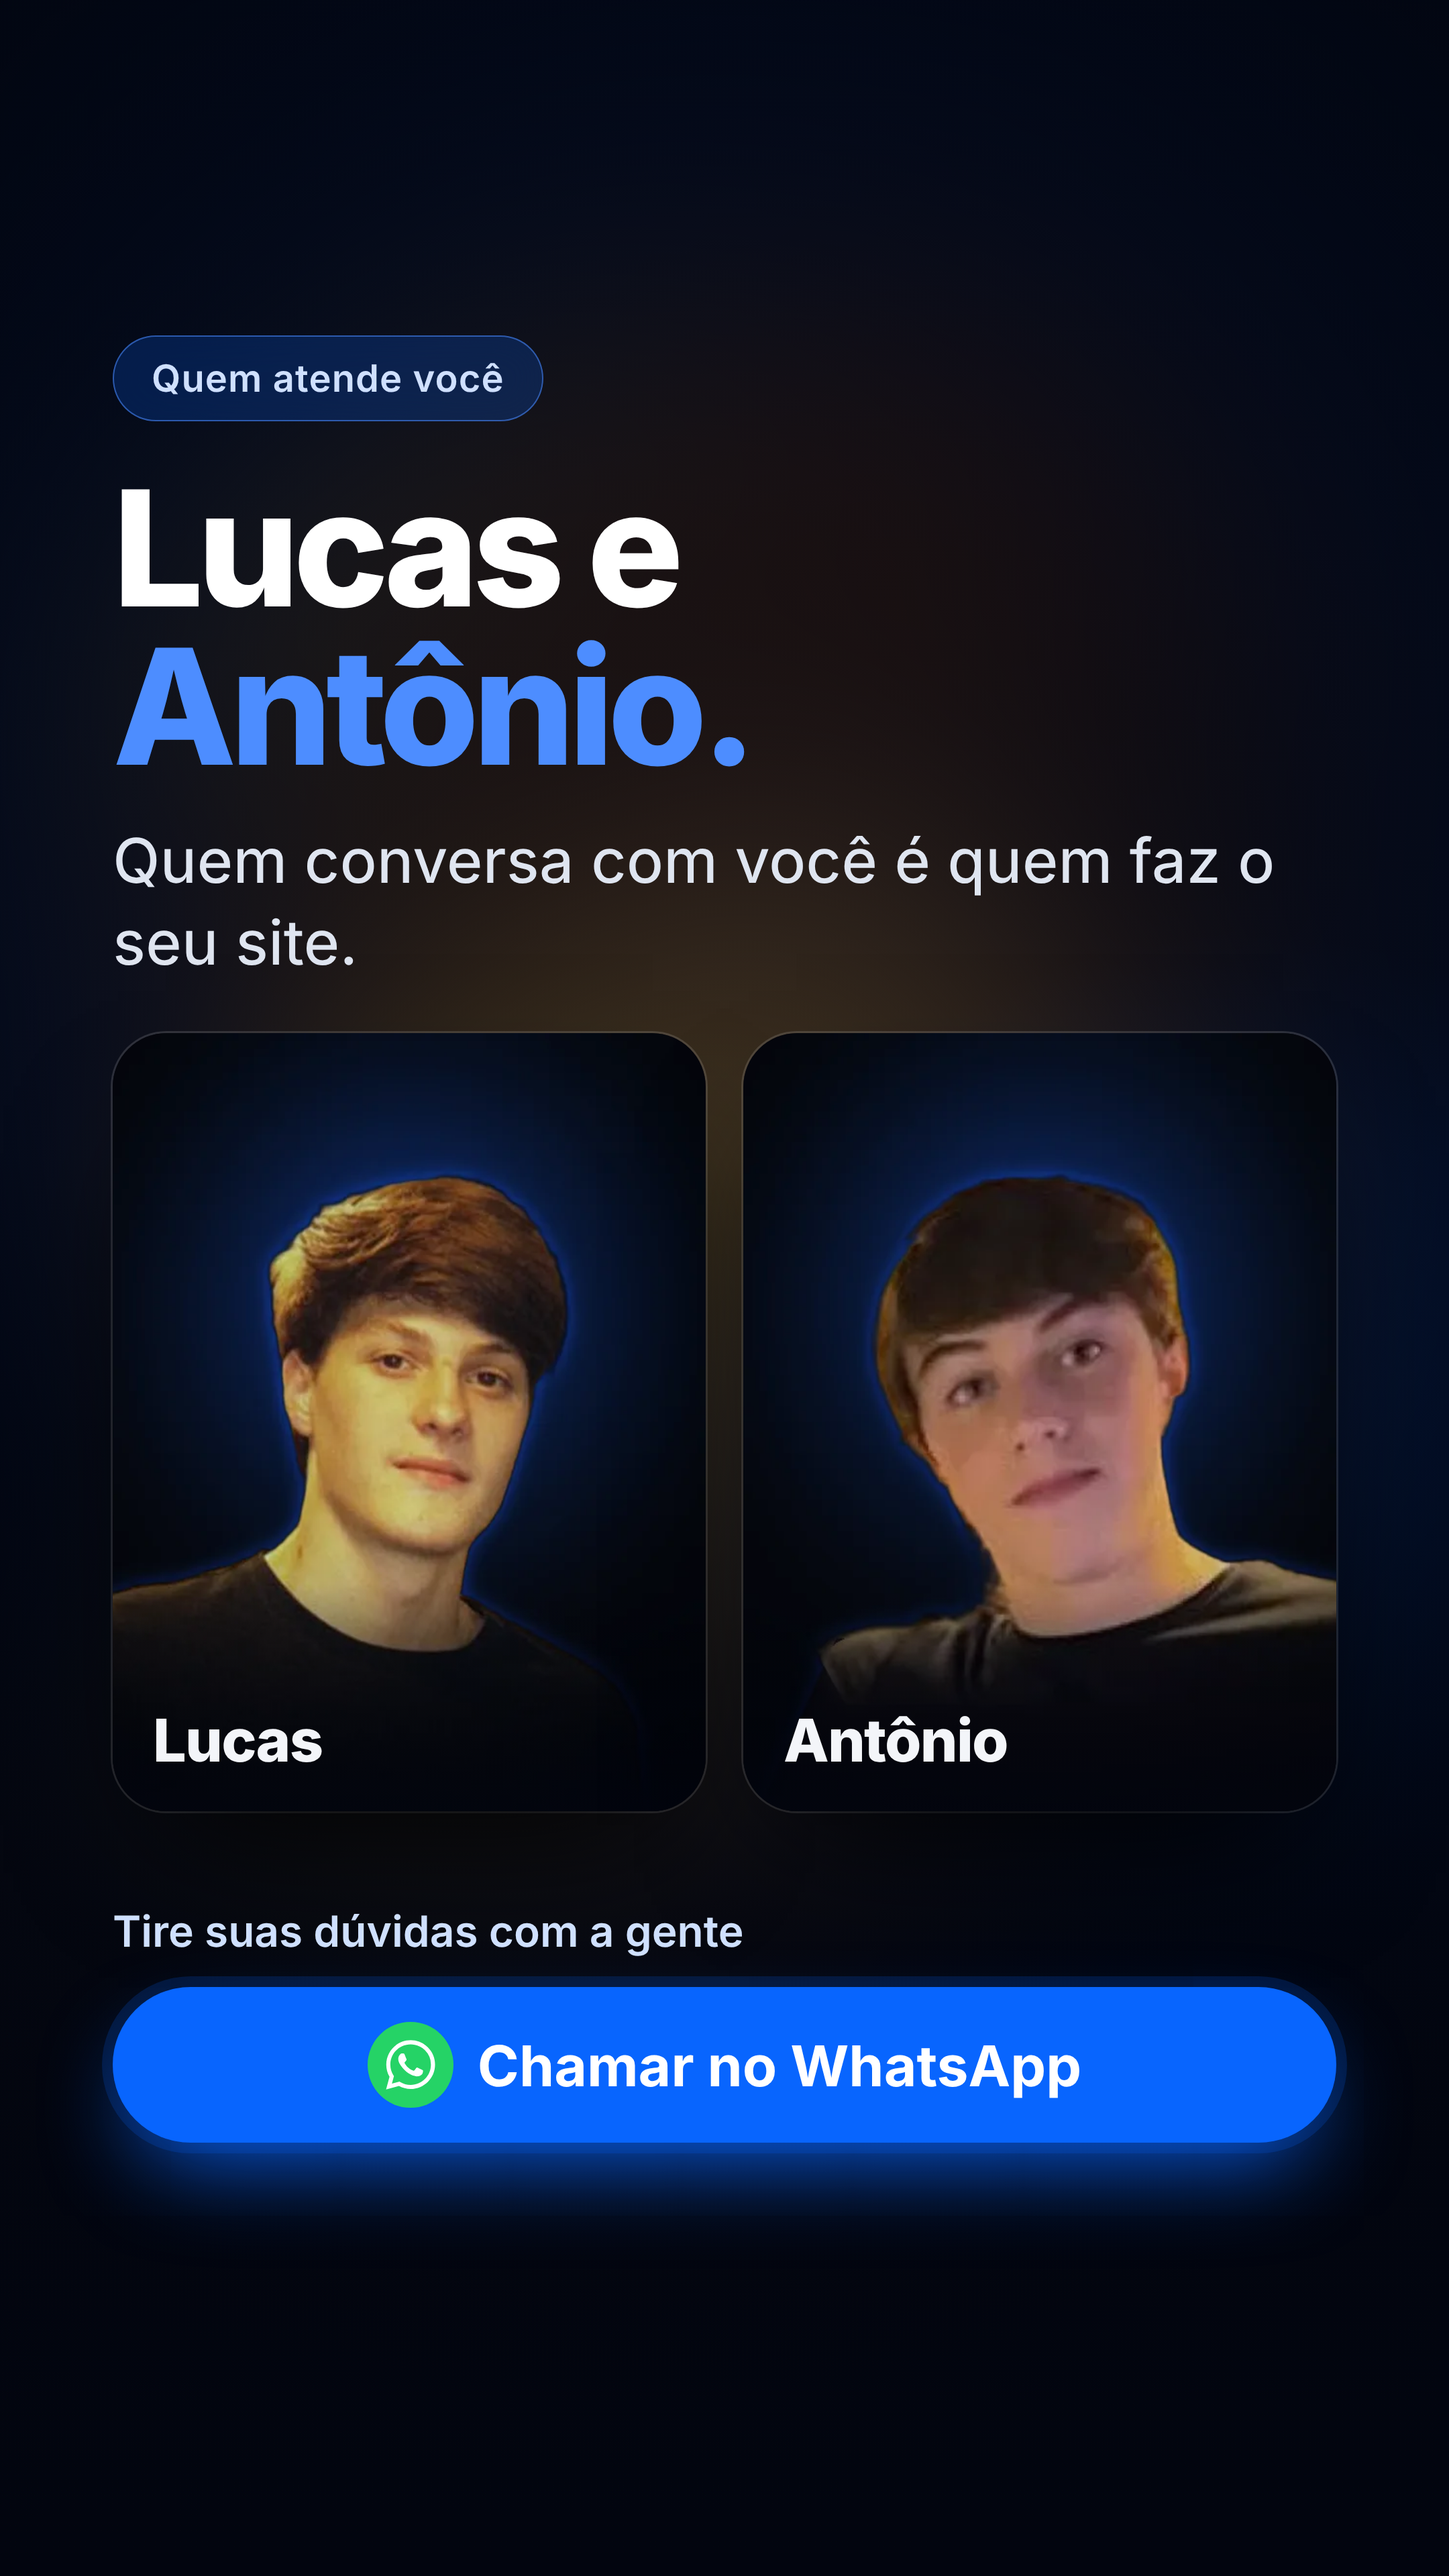
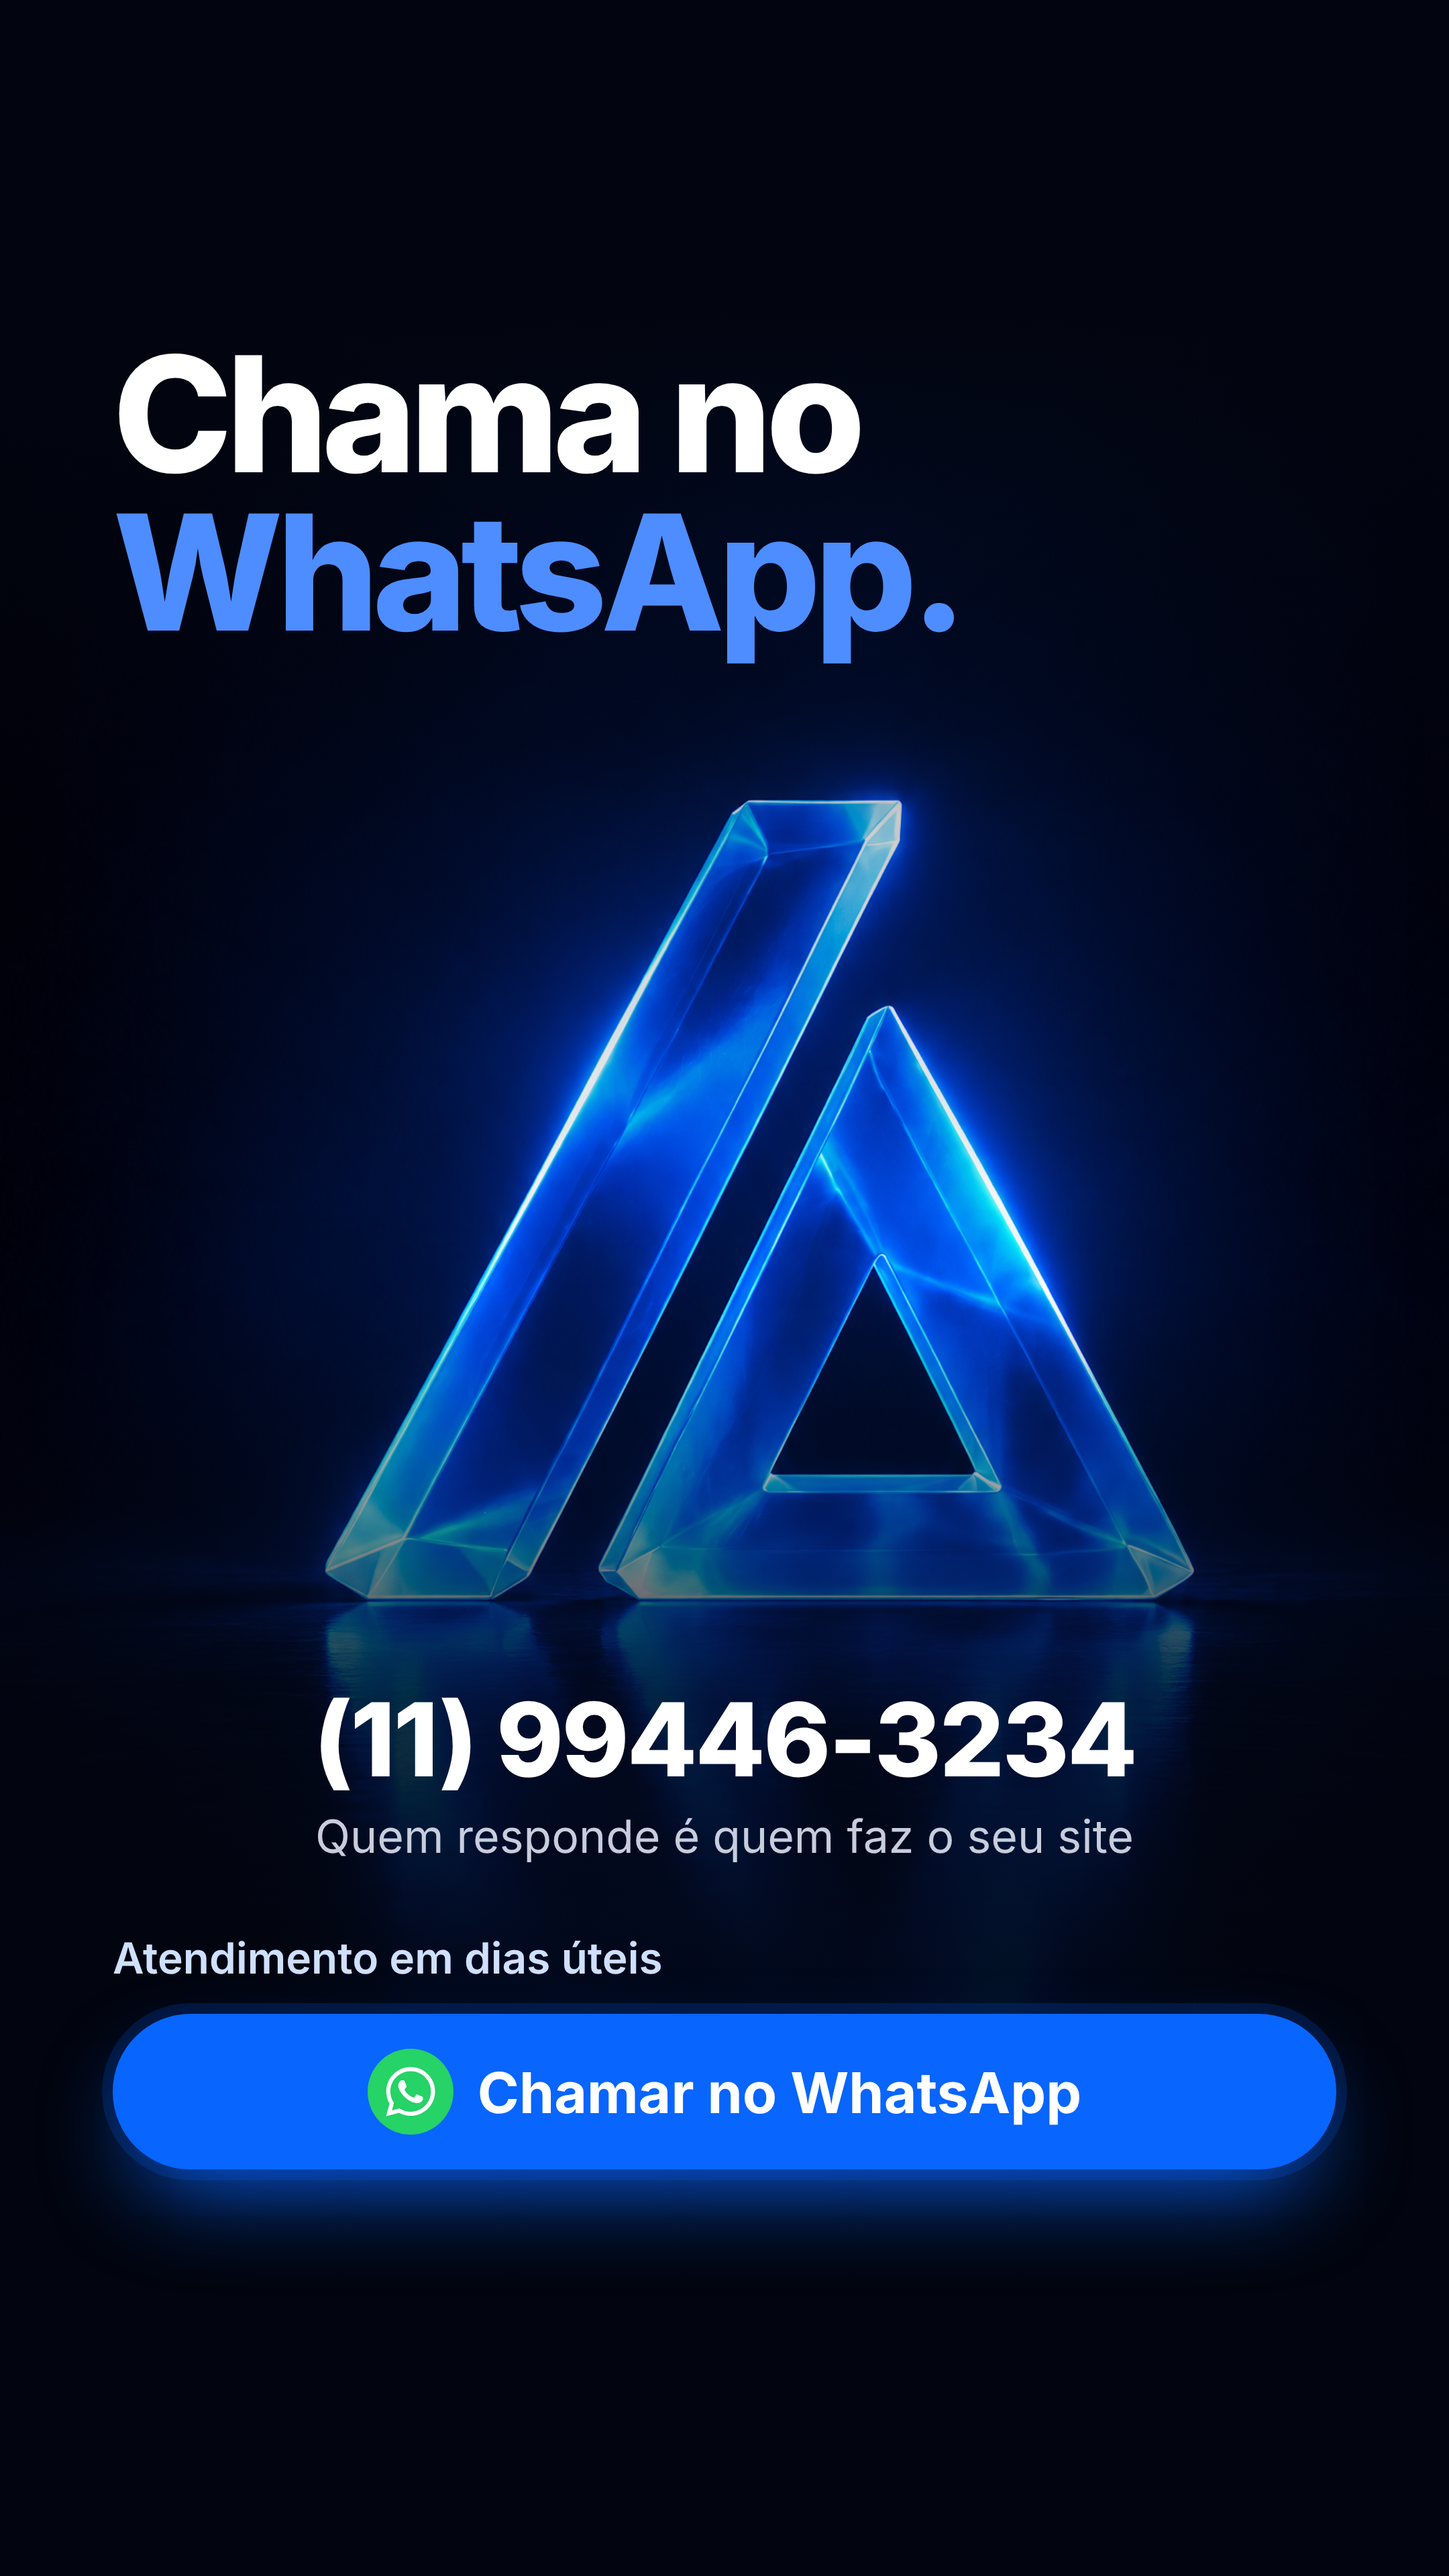
Instagram: Contato 01 sem fotos, com o WhatsApp em destaque
Claude-Session: https://claude.ai/code/session_0144E8K5YaHTVDtLe8swm1ug

diff --git a/growlift-social/_fonte/html/03-destaques/6-contato/01.html b/growlift-social/_fonte/html/03-destaques/6-contato/01.html
@@ -37,25 +37,17 @@ body{background:#02050f}
 .feat{display:flex;align-items:center;gap:24px;font-size:44px;font-weight:600;color:#f3f6fb;line-height:1.2}
 .feat b{flex:none;width:58px;height:58px;border-radius:50%;display:grid;place-items:center;background:#0865fe;box-shadow:0 10px 30px -8px rgba(8,101,254,.9)}
 </style></head><body>
-    <img src="lucas.webp" style="position:absolute;left:-200px;top:-200px;width:1480px;height:2320px;object-fit:cover;filter:blur(110px) saturate(1.2);opacity:.45">
-    <div class="glow" style="width:1300px;height:1300px;right:-500px;top:500px;opacity:.55"></div>
-    <div style="position:absolute;inset:0;background:linear-gradient(180deg,rgba(2,5,15,.55) 0%,rgba(2,5,15,.3) 45%,rgba(2,5,15,.9) 75%,#02050f 100%)"></div>
+    <img src="hd/marca-vidro-vertical.png" style="position:absolute;left:0;top:-150px;width:1080px;height:1910px;object-fit:cover">
+    <div style="position:absolute;inset:0;background:linear-gradient(180deg,#02050f 12%,rgba(2,5,15,.2) 32%,rgba(2,5,15,0) 50%,rgba(2,5,15,.78) 66%,#02050f 84%)"></div>
     <div style="position:absolute;left:84px;right:84px;top:250px">
-      <span class="pill blue">Quem atende você</span>
-      <h1 class="t-title" style="font-size:120px;margin-top:36px">Lucas e <span class="blue">Antônio.</span></h1>
-      <p class="t-lead" style="margin-top:26px">Quem conversa com você é quem faz o seu site.</p>
+      <h1 class="t-title" style="font-size:120px">Chama no <span class="blue">WhatsApp.</span></h1>
     </div>
-    <div style="position:absolute;left:84px;right:84px;top:770px;display:grid;grid-template-columns:1fr 1fr;gap:28px">
-      <figure style="position:relative;border-radius:40px;overflow:hidden;height:580px;box-shadow:0 50px 100px -40px rgba(0,0,0,.95),0 0 0 1.5px rgba(255,255,255,.14)">
-        <img src="lucas.webp" style="display:block;width:100%;height:100%;object-fit:cover;object-position:50% 20%">
-        <figcaption style="position:absolute;left:0;right:0;bottom:0;padding:90px 30px 26px;background:linear-gradient(180deg,rgba(2,5,15,0),rgba(2,5,15,.85));font-size:44px;font-weight:800;letter-spacing:-.02em">Lucas</figcaption>
-      </figure><figure style="position:relative;border-radius:40px;overflow:hidden;height:580px;box-shadow:0 50px 100px -40px rgba(0,0,0,.95),0 0 0 1.5px rgba(255,255,255,.14)">
-        <img src="antonio.webp" style="display:block;width:100%;height:100%;object-fit:cover;object-position:50% 20%">
-        <figcaption style="position:absolute;left:0;right:0;bottom:0;padding:90px 30px 26px;background:linear-gradient(180deg,rgba(2,5,15,0),rgba(2,5,15,.85));font-size:44px;font-weight:800;letter-spacing:-.02em">Antônio</figcaption>
-      </figure>
+    <div style="position:absolute;left:84px;right:84px;top:1250px;text-align:center">
+      <p style="font-size:76px;font-weight:800;letter-spacing:-.02em;color:#fff">(11) 99446-3234</p>
+      <p style="font-size:34px;color:#c6cede;margin-top:6px">Quem responde é quem faz o seu site</p>
     </div>
     
-    <div style="position:absolute;left:84px;right:84px;top:1420px">
-      <p style="font-size:32px;font-weight:600;color:#cfe0ff;display:flex;align-items:center;gap:12px">Tire suas dúvidas com a gente</p>
+    <div style="position:absolute;left:84px;right:84px;top:1440px">
+      <p style="font-size:32px;font-weight:600;color:#cfe0ff;display:flex;align-items:center;gap:12px">Atendimento em dias úteis</p>
       <div style="margin-top:22px;height:116px;border-radius:999px;display:flex;align-items:center;justify-content:center;gap:18px;font-size:42px;font-weight:700;color:#fff;background:#0865fe;box-shadow:0 0 0 8px rgba(8,101,254,.18),0 30px 70px -20px rgba(8,101,254,.95)"><span style="width:64px;height:64px;border-radius:50%;display:grid;place-items:center;background:#25d366;color:#fff"><svg width="44" height="44" viewBox="0 0 24 24" aria-hidden="true"><path fill="currentColor" d="M12.04 2C6.58 2 2.13 6.45 2.13 11.91c0 1.75.46 3.45 1.32 4.95L2.05 22l5.25-1.38a9.86 9.86 0 0 0 4.74 1.21h.01c5.46 0 9.91-4.45 9.91-9.91 0-2.65-1.03-5.14-2.9-7.01A9.82 9.82 0 0 0 12.04 2zm0 18.15h-.01a8.2 8.2 0 0 1-4.19-1.15l-.3-.18-3.12.82.83-3.04-.2-.31a8.2 8.2 0 0 1-1.26-4.38c0-4.54 3.7-8.24 8.25-8.24 2.2 0 4.27.86 5.83 2.42a8.18 8.18 0 0 1 2.41 5.83c0 4.54-3.7 8.23-8.24 8.23zm4.52-6.16c-.25-.12-1.47-.72-1.69-.81-.23-.08-.39-.12-.56.12-.17.25-.64.81-.78.97-.14.17-.29.19-.54.06-.25-.12-1.05-.39-1.99-1.23-.74-.66-1.23-1.47-1.38-1.72-.14-.25-.02-.38.11-.51.11-.11.25-.29.37-.43.12-.14.17-.25.25-.41.08-.17.04-.31-.02-.43-.06-.12-.56-1.34-.76-1.84-.2-.48-.41-.42-.56-.43h-.48c-.17 0-.43.06-.66.31-.23.25-.86.85-.86 2.07 0 1.22.89 2.4 1.01 2.56.12.17 1.75 2.67 4.23 3.74.59.26 1.05.41 1.41.52.59.19 1.13.16 1.56.1.48-.07 1.47-.6 1.67-1.18.21-.58.21-1.07.14-1.18-.06-.11-.22-.17-.47-.29z"/></svg></span>Chamar no WhatsApp</div>
     </div></body></html>

diff --git a/growlift-social/03-destaques/destaques.md b/growlift-social/03-destaques/destaques.md
@@ -24,7 +24,7 @@ Usem as capas da **direção A** (`capas/direcao-A/`): fundo azul-marinho, ícon
 | --- | --- | --- | --- |
 | Projetos | 06 (o nosso próprio site, computador e celular) | `https://growlift.com.br` | Ver o site ao vivo (por cima do botão azul desenhado na arte) |
 | Serviços | 06 (peça um diagnóstico grátis) | `https://growlift.com.br/#diagnostico` | Pedir diagnóstico |
-| Contato | 01 (Lucas e Antônio) | `https://wa.me/5511994463234` | Chamar no WhatsApp (por cima do botão azul) |
+| Contato | 01 (chama no WhatsApp) | `https://wa.me/5511994463234` | Chamar no WhatsApp (por cima do botão azul) |
 | Contato | 02 (diagnóstico grátis) | `https://growlift.com.br/#diagnostico` | Pedir diagnóstico grátis (por cima do botão azul) |
 
    Nas artes novas, o lugar do link já vem desenhado: um botão azul do tamanho do adesivo. Ponham o adesivo exatamente em cima dele.
@@ -61,7 +61,7 @@ Tudo o que aparece está nos planos do site. Não incluí nada que vocês ainda 
 
 | Arquivo | O que mostra |
 | --- | --- |
-| 01 | Lucas e Antônio, "quem conversa com você é quem faz o seu site", com o botão **Chamar no WhatsApp** |
+| 01 | "Chama no WhatsApp.", a marca de vidro, o número (11) 99446-3234 e o botão **Chamar no WhatsApp**. Sem fotos de pessoas nos destaques (decisão de 26/10/2026) |
 | 02 | Diagnóstico grátis em 3 passos (conte sobre o negócio, receba a prévia em até 2 dias úteis, decida com calma), com o botão **Pedir diagnóstico grátis** |
 
 ## Editar
